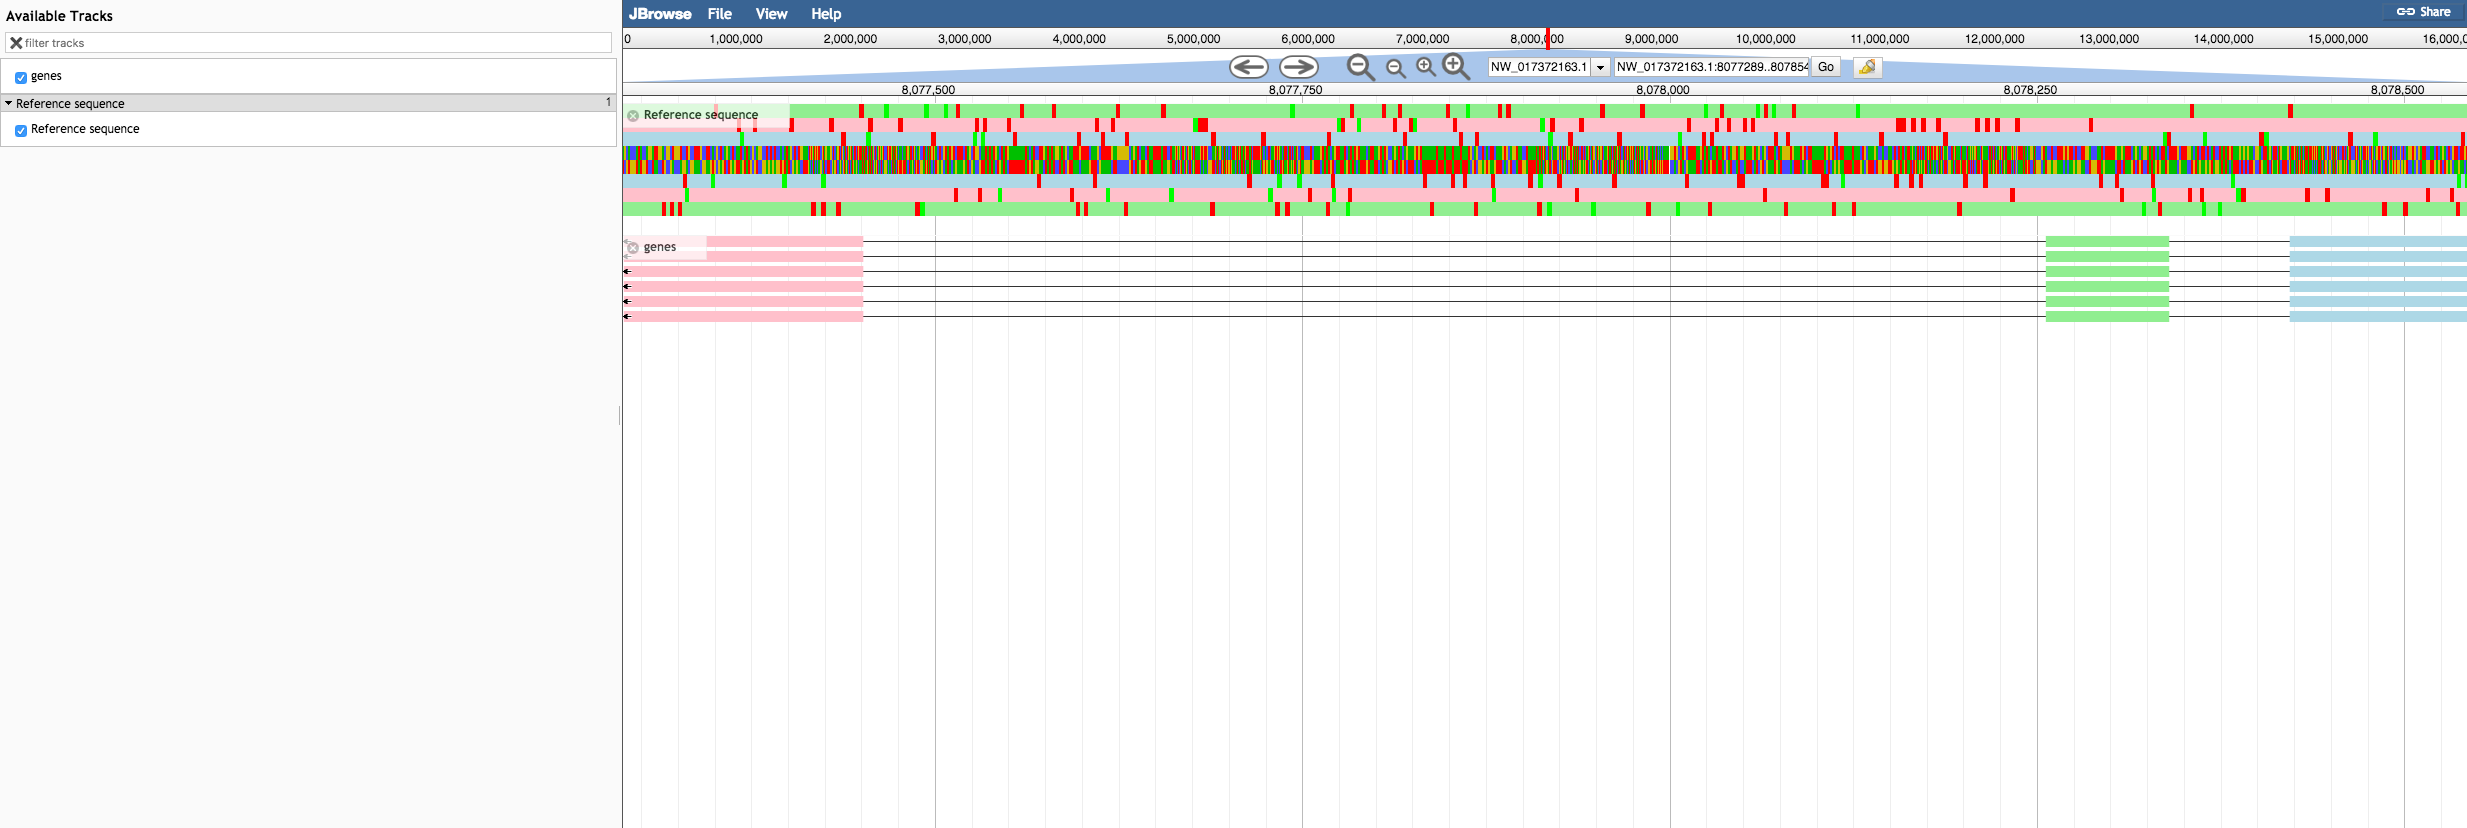
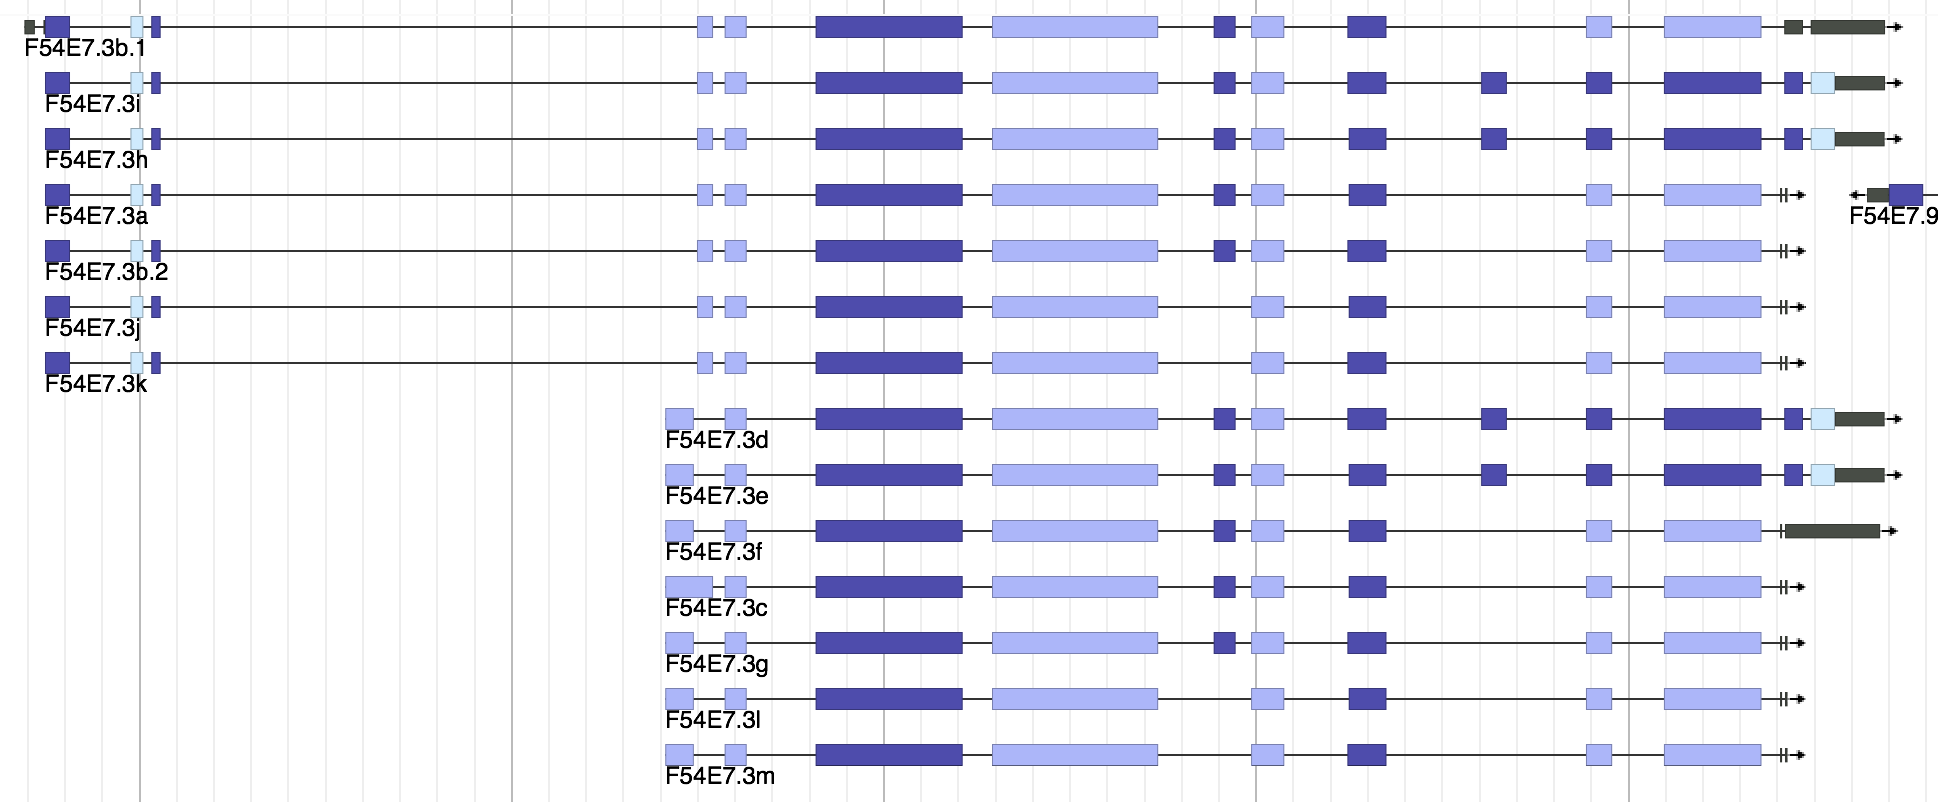
adding the suggested red gradient in the comments and updating the image

diff --git a/js/View/FeatureGlyph/ProcessedTranscript.js b/js/View/FeatureGlyph/ProcessedTranscript.js
@@ -23,9 +23,9 @@ function (
                         var end = feat.get('end');
 
                         var frame = feat.get('strand') === 1 ? (start + phase) % 3 : (end - phase) % 3;
-                        if (frame === 0) return '#2D6C80';
-                        else if (frame === 1) return '#469DF3';
-                        else if (frame === 2) return '#B4F78F';
+                        if (frame === 0) return '#c9ebff';        #ff7c7c
+                        else if (frame === 1) return '#abb5ff';   #ff0000
+                        else if (frame === 2) return '#5148b2';   #940000
                         return 'black';
                     }
                 }

diff --git a/js/View/FeatureGlyph/Gene.js b/js/View/FeatureGlyph/Gene.js
@@ -23,9 +23,9 @@ function (
                         var end = feat.get('end');
 
                         var frame = feat.get('strand') === 1 ? (start + phase) % 3 : (end - phase) % 3;
-                        if (frame === 0) return '#2D6C80';
-                        else if (frame === 1) return '#469DF3';
-                        else if (frame === 2) return '#B4F78F';
+                        if (frame === 0) return '#c9ebff';       #ff7c7c
+                        else if (frame === 1) return '#abb5ff';  #ff0000
+                        else if (frame === 2) return '#5148b2';  #940000
                         return 'black';
                     }
                 }

diff --git a/css/main.css b/css/main.css
@@ -1,11 +1,14 @@
 .translatedSequence.frame2 {
-    background-color: #B4F78F;
+    background-color: #5148b2;
+    /* background-color: #940000 */
 }
 
 .translatedSequence.frame1 {
-    background-color: #469DF3; 
+    background-color: #abb5ff; 
+    /* background-color: #ff0000 */
 }
 
 .translatedSequence.frame0 {
-    background-color: #2D6C80;
+    background-color: #c9ebff;
+    /* background-color: #ff7c7c */
 }
